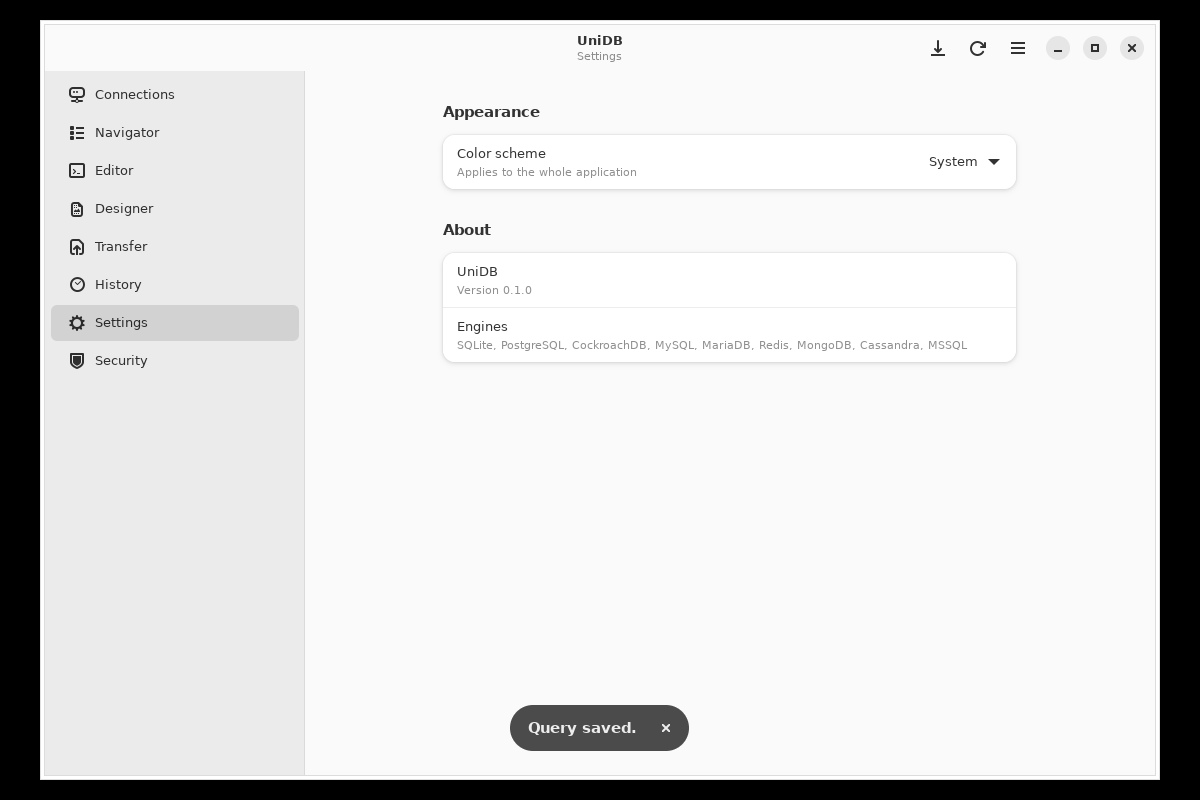
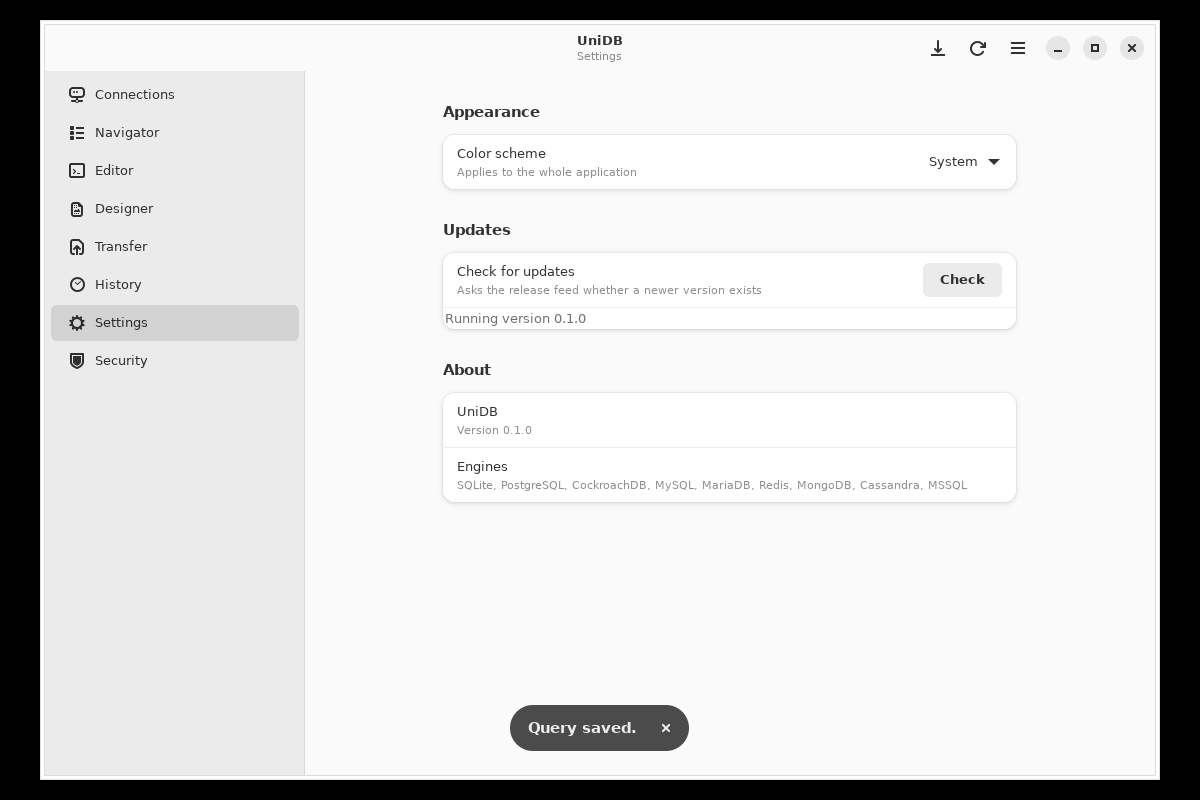
docs(scope): record packaging and update progress and evidence

diff --git a/docs/packaging.md b/docs/packaging.md
@@ -1,0 +1,118 @@
+# Packaging, signing, and updates
+
+UniDB ships as a native Linux application. This page covers how a release is
+built, how the update notice works, and what a maintainer needs for a signed
+release. The feature decision is in
+[spec 0010](specs/0010-packaging-updates.md).
+
+## Build an installable package
+
+The `.deb` is built from the same pinned container used for GUI verification, so
+release and verification builds cannot drift.
+
+```
+./scripts/package-deb.sh
+```
+
+The script:
+
+1. builds `target/release/unidb` with the `gui` feature inside `unidb-gtk-base`,
+2. stages the binary, desktop entry, scalable icon, and AppStream metadata,
+3. writes `target/release/unidb_<version>_amd64.deb` with
+   `dpkg-deb --build --root-owner-group`,
+4. verifies the package by printing its metadata, listing its contents,
+   extracting it, and running the extracted binary with `--version` inside the
+   container, and
+5. writes the proof to `docs/evidence/package-deb.txt`.
+
+In CI, set `UNIDB_BUILD_LOCAL=1` to build with the runner toolchain instead of
+Docker.
+
+Install and remove it with the normal tools:
+
+```
+sudo apt install ./target/release/unidb_0.1.0_amd64.deb
+sudo apt remove unidb
+```
+
+Runtime dependencies are declared in `DEBIAN/control`: GTK 4.14, libadwaita
+1.5, GtkSourceView 5, glib, and libc. The package targets amd64 in this version.
+
+## Other formats
+
+- AppImage: `scripts/package-appimage.sh` builds an AppImage with pinned
+  linuxdeploy and the GTK plugin. It downloads tools on first use, so it needs
+  network access and is not part of the offline verification run.
+- Flatpak: `flatpak/io.github.sakib669.UniDB.yml` is a manifest skeleton for
+  the GNOME 47 runtime. It builds the app from this checkout and is ready to
+  submit to Flathub once signed releases exist.
+
+## Software bill of materials
+
+```
+./scripts/generate-sbom.sh
+```
+
+This writes `target/sbom.cdx.json`, a CycloneDX 1.5 document built from
+`cargo metadata`, so it works offline and lists every workspace and dependency
+component with a purl and version. The current workspace produces 502
+components. Release jobs attach the SBOM next to the package.
+
+## Signing and release automation
+
+`.github/workflows/release.yml` runs on `v*` tags:
+
+1. installs the GTK development packages on Ubuntu 24.04,
+2. runs formatting, clippy, and the test suite,
+3. builds and verifies the `.deb`,
+4. generates the SBOM and `SHA256SUMS`,
+5. imports `RELEASE_GPG_PRIVATE_KEY` when the secret exists and writes detached
+   ASCII armored signatures next to the artifacts,
+6. creates the GitHub release with the package, SBOM, checksums, and
+   signatures.
+
+Without the signing secret the release is still produced, but unsigned. Verify
+a download with:
+
+```
+sha256sum -c SHA256SUMS
+gpg --verify unidb_0.1.0_amd64.deb.asc unidb_0.1.0_amd64.deb
+```
+
+The releases page is the single source of truth for the update notice.
+
+## Update notice
+
+Settings has a Check for updates action. It is disabled unless
+`UNIDB_UPDATE_FEED` points at a release feed, for example a GitHub releases API
+URL:
+
+```
+UNIDB_UPDATE_FEED=https://api.github.com/repos/Sakib669/uni-db-linux/releases/latest unidb
+```
+
+UniDB fetches the feed over HTTP on a blocking thread, parses `tag_name`,
+`html_url`, and `published_at`, and compares the version with the running build.
+If a newer release exists, the Settings row and a toast show its version and
+link. The check never downloads or installs anything, and no request is made
+when the variable is unset.
+
+## Rollback
+
+Keep the previous package file and checksum from the release page. Roll back
+with:
+
+```
+sudo apt install ./unidb_<previous>_amd64.deb
+```
+
+The app store database is independent of the package version. Backups are
+written next to `unidb.db` under the user data directory before migrations, so a
+downgrade can restore a backup copy if a future migration is incompatible.
+
+## What is not covered yet
+
+- arm64 packages and a multi architecture release matrix.
+- A signed apt repository instead of a single `.deb` download.
+- In app downloading and installing of updates.
+- Distribution packages beyond the Flatpak manifest skeleton.

diff --git a/docs/scope/scope.md b/docs/scope/scope.md
@@ -15,6 +15,7 @@ UniDB is a native Linux desktop database studio. This file tracks what is being 
 | 7 | Table designer | in-progress | [0007](../specs/0007-table-designer.md) |
 | 8 | Import and export | in-progress | [0008](../specs/0008-import-export.md) |
 | 9 | History, saved queries, and settings | in-progress | [0009](../specs/0009-history-saved-queries-settings.md) |
+| 10 | Packaging, signing, updates, and release automation | in-progress | [0010](../specs/0010-packaging-updates.md) |
 
 ## Features
 
@@ -168,6 +169,26 @@ UniDB is a native Linux desktop database studio. This file tracks what is being 
 - [ ] Follow up: history retention setting, folders and tags, snippets, editor preferences
 - [ ] Verify it: /check verify History, saved queries, and settings
 - [ ] Test it: /test History, saved queries, and settings
+
+### 10. Packaging, signing, updates, and release automation
+
+**Intent**: Make UniDB installable and releasable. A verified `.deb` built from the pinned container with a desktop entry, icon, AppStream metadata, and explicit dependencies. An AppImage script and Flatpak skeleton for other distributions. A release workflow on tags with gates, SBOM, checksums, optional signing, and a GitHub release. An update notice in Settings fed by a pinned release feed.
+
+**Done when**: one command produces a verified `.deb`, a `v*` tag produces a signed-when-configured GitHub release with SBOM and checksums, and Settings reports whether a newer version exists without downloading anything.
+
+- [x] Decide packaging, signing, updates, and release automation (spec): [0010](../specs/0010-packaging-updates.md)
+- [x] Build it: /develop Packaging, signing, updates, and release automation
+  - [x] Icon, desktop entry, AppStream metadata, and staged `.deb` build script
+  - [x] Package verification: metadata, contents, extraction, and `unidb --version` inside the container
+  - [x] CycloneDX SBOM generator, 502 components from cargo metadata
+  - [x] AppImage build script and Flatpak manifest skeleton
+  - [x] Release GitHub Actions workflow with gates, SBOM, checksums, optional GPG signing, and release publishing
+  - [x] Update feed parsing, version comparison, HTTP fetch with `ureq`, service check, and headless tests
+  - [x] Settings updates group with the check action, verified against a local feed
+  - [x] Packaging, signing, update, and rollback documentation
+- [ ] Follow up: arm64 matrix, signed apt repository, in app download and verification, Flathub submission
+- [ ] Verify it: /check verify Packaging, signing, updates, and release automation
+- [ ] Test it: /test Packaging, signing, updates, and release automation
 
 ## Deferred
 
